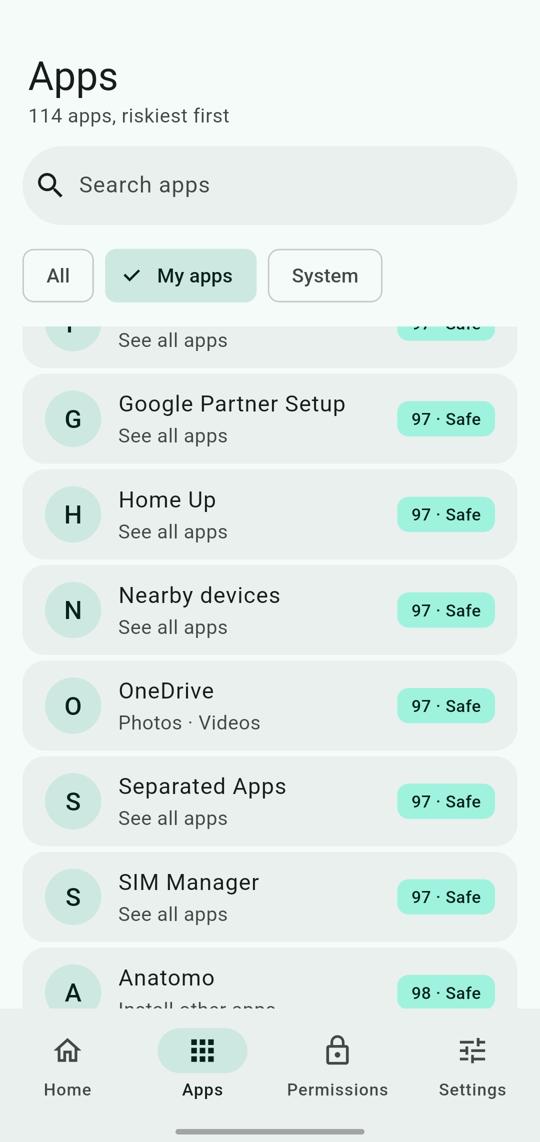
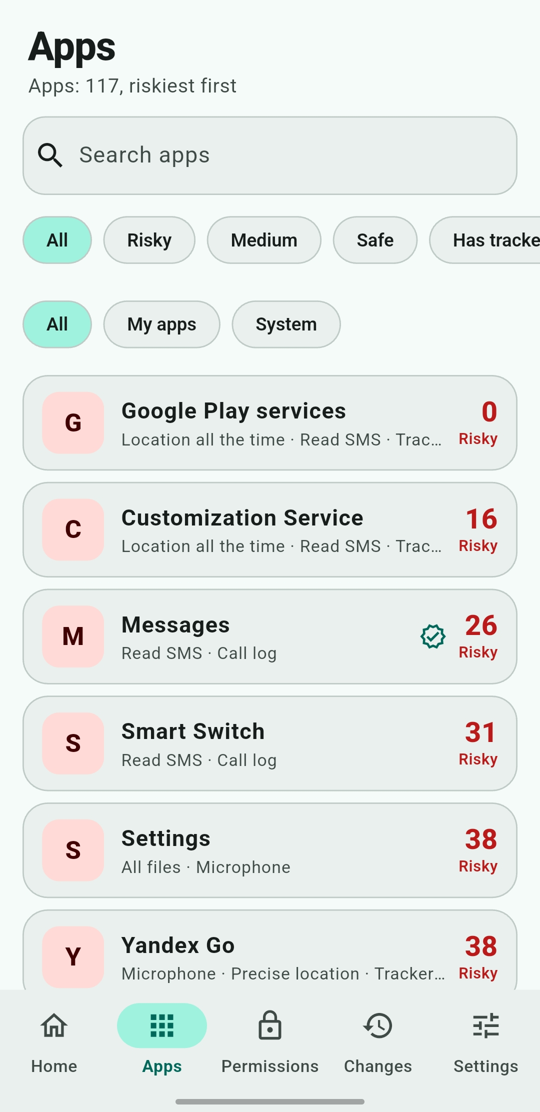
v2.2.0: Trackers tab, DNS over TCP, new README

diff --git a/README.md b/README.md
@@ -15,12 +15,24 @@ No account. No ads. No analytics. Nothing leaves your phone.
 </div>
 
 <p align="center">
-  <img src="docs/screenshots/home.png" alt="Home screen with the privacy score" width="30%">
+  <img src="docs/screenshots/home.png" alt="Home: privacy score and overview" width="23%">
   &nbsp;
-  <img src="docs/screenshots/apps.png" alt="Apps list, riskiest first" width="30%">
+  <img src="docs/screenshots/apps.png" alt="Apps, riskiest first" width="23%">
   &nbsp;
-  <img src="docs/screenshots/permissions.png" alt="Permissions grouped by who can use them" width="30%">
+  <img src="docs/screenshots/security.png" alt="Security checks" width="23%">
+  &nbsp;
+  <img src="docs/screenshots/network.png" alt="Network monitor" width="23%">
 </p>
+
+## At a glance
+
+| | |
+| --- | --- |
+| **Score** | 0 to 100 for your phone and for every app, with a full breakdown. |
+| **Looks at** | Permissions, special access, trackers, install source, and (optional) code and DNS lookups. |
+| **Works** | Fully offline. No account, no ads, no analytics, no servers. |
+| **Tabs** | Home, Apps, Permissions, Trackers, Settings. Changes opens from the clock icon on Home. |
+| **Platform** | Android. 25 languages. Free software (GPL-3.0). |
 
 ## What it does
 
